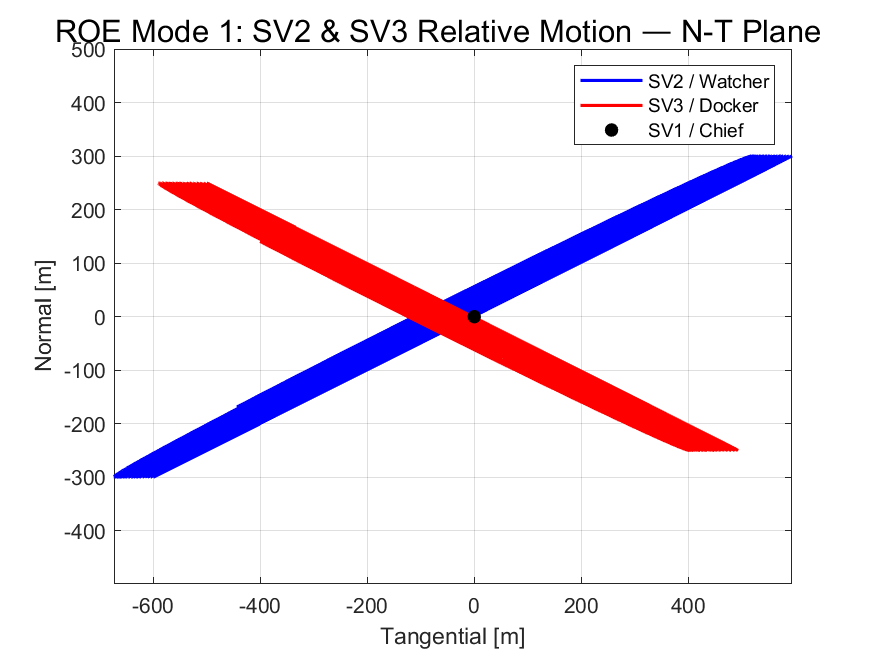
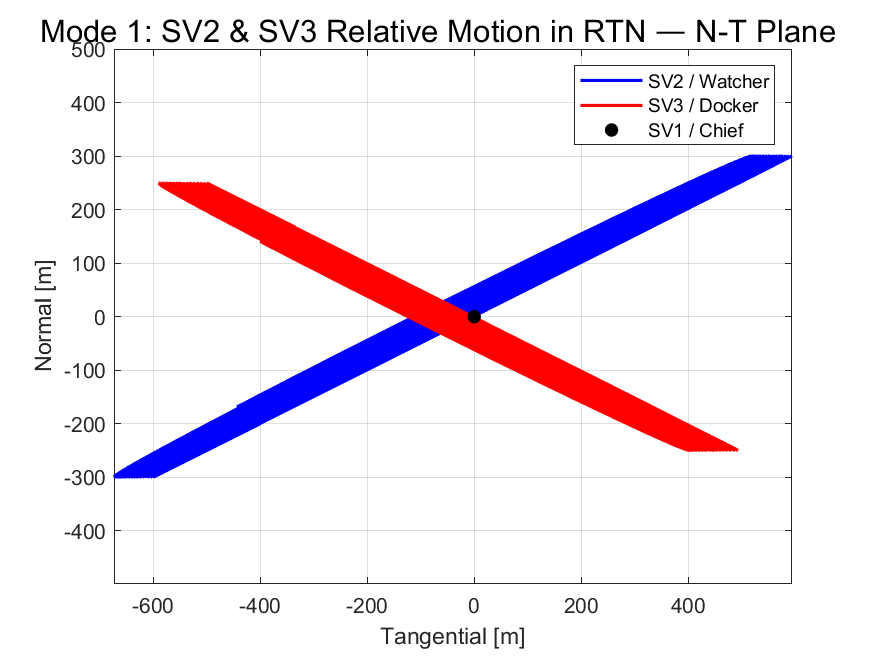
Q1 done fr fr

Changed region(s): [[0.0309, 0.0305, 0.7406, 0.0915], [0.7714, 0.0305, 0.9566, 0.061]]

diff --git a/sim/simulate_and_plot_relative_motion.m b/sim/simulate_and_plot_relative_motion.m
@@ -1,4 +1,5 @@
-function simulate_and_plot_relative_motion(t, SV2_roe_init, state_abs_SV2_init, SV3_roe_init, state_abs_SV3_init, SV1_oe_init, SV1_state_init, fig_path, title_str)
+function simulate_and_plot_relative_motion(t, t_orbit, SV2_roe_init, state_abs_SV2_init, SV3_roe_init, state_abs_SV3_init, SV1_oe_init, SV1_state_init,...
+    fig_path, title_str, fig_path2, title_str2, fig_path3, title_str3)
     % Inputs:
     %   t             = time array [s]
     %   SV2_roe_init  = 6x1 initial QNS ROEs of Watcher (SV2)
@@ -14,10 +15,7 @@ function simulate_and_plot_relative_motion(t, SV2_roe_init, state_abs_SV2_init, 
     r_SV1 = chief_state(:,1:3);
     v_SV1 = chief_state(:,4:6);
     
-    % Propagate both deputies in ROE and ECI
-    [~, roe_SV2] = roe_stm_j2(t, SV2_roe_init, SV1_oe_init);
-    [~, roe_SV3] = roe_stm_j2(t, SV3_roe_init, SV1_oe_init);
-
+    % Propagate both deputies in ECI
     [~, state_SV2] = rk4_eom_ECI(t, state_abs_SV2_init, J2_flag); % with J2
     [~, state_SV3] = rk4_eom_ECI(t, state_abs_SV3_init, J2_flag); % with J2
     r_SV2 = state_SV2(:,1:3);
@@ -30,8 +28,6 @@ function simulate_and_plot_relative_motion(t, SV2_roe_init, state_abs_SV2_init, 
     SV3_rel_pos = zeros(length(t), 3);
 
     % ROE from FODE
-    
-    
     [d_a_osc_SV2, d_lambda_osc_SV2, d_e_x_osc_SV2, d_e_y_osc_SV2, d_i_x_osc_SV2, d_i_y_osc_SV2, ...
      d_a_mean_SV2, d_lambda_mean_SV2, d_e_x_mean_SV2, d_e_y_mean_SV2, d_i_x_mean_SV2, d_i_y_mean_SV2] = ...
         compute_OE_ROE_mean_osc(r_SV1, v_SV1, r_SV2, v_SV2, J2_flag);
@@ -40,6 +36,11 @@ function simulate_and_plot_relative_motion(t, SV2_roe_init, state_abs_SV2_init, 
         compute_OE_ROE_mean_osc(r_SV1, v_SV1, r_SV3, v_SV3, J2_flag);
     ROE_SV2_FODE = [d_a_mean_SV2, d_lambda_mean_SV2, d_e_x_mean_SV2, d_e_y_mean_SV2, d_i_x_mean_SV2, d_i_y_mean_SV2];
     ROE_SV3_FODE = [d_a_mean_SV3, d_lambda_mean_SV3, d_e_x_mean_SV3, d_e_y_mean_SV3, d_i_x_mean_SV3, d_i_y_mean_SV3];
+
+    % Propagate ROE from STM using same IC
+
+    [~, roe_SV2] = roe_stm_j2(t, ROE_SV2_FODE(1,:), SV1_oe_init);
+    [~, roe_SV3] = roe_stm_j2(t, ROE_SV3_FODE(1,:), SV1_oe_init);
 
 
     for i = 1:length(t)     
@@ -52,28 +53,7 @@ function simulate_and_plot_relative_motion(t, SV2_roe_init, state_abs_SV2_init, 
         x_v_SV3 = v_SV3(i,:)';
 
         SV2_rel_pos(i, :) = ECI2RTN_rel(x_r_SV1', x_v_SV1', x_r_SV2', x_v_SV2');
-        SV3_rel_pos(i, :) = ECI2RTN_rel(x_r_SV1', x_v_SV1', x_r_SV3', x_v_SV3');
-
-        % Compute ROEs from ECI states
-        % [d_a_osc_SV2, d_lambda_osc_SV2, d_e_x_osc_SV2, d_e_y_osc_SV2, d_i_x_osc_SV2, d_i_y_osc_SV2, ...
-        %  d_a_mean_SV2, d_lambda_mean_SV2, d_e_x_mean_SV2, d_e_y_mean_SV2, d_i_x_mean_SV2, d_i_y_mean_SV2] = ...
-        %     compute_OE_ROE_mean_osc(x_r_SV1', x_v_SV1', x_r_SV2', x_v_SV2', J2_flag);
-        % [d_a_osc_SV3, d_lambda_osc_SV3, d_e_x_osc_SV3, d_e_y_osc_SV3, d_i_x_osc_SV3, d_i_y_osc_SV3, ...
-        %  d_a_mean_SV3, d_lambda_mean_SV3, d_e_x_mean_SV3, d_e_y_mean_SV3, d_i_x_mean_SV3, d_i_y_mean_SV3] = ...
-        %     compute_OE_ROE_mean_osc(x_r_SV1', x_v_SV1', x_r_SV3', x_v_SV3', J2_flag);
-
-
-
-
-        %[a_o, e_o, i_o, RAAN_o, w_o, M_o] = ECI2OE(x_r_SV1, x_v_SV1);
-        %oe_SV1 = [a_o, e_o, i_o, RAAN_o, w_o, M_o];
-
-        % Convert QNS ROEs to relative RTN position
-        %SV2_rel_pos(i, :) = ROE2RTN(x_roe_SV2, oe_SV1,x_r_SV1,x_v_SV1);
-        %SV3_rel_pos(i, :) = ROE2RTN(x_roe_SV3, oe_SV1,x_r_SV1,x_v_SV1);
-        % For now, just propagating regularly, not using J2 STM
-        
-
+        SV3_rel_pos(i, :) = ECI2RTN_rel(x_r_SV1', x_v_SV1', x_r_SV3', x_v_SV3');     
 
     end
 
@@ -83,4 +63,9 @@ function simulate_and_plot_relative_motion(t, SV2_roe_init, state_abs_SV2_init, 
     NT = true; 
     plot_RT_RN_projections_separate(SV2_rel_pos, SV3_rel_pos, RT,RN,NT,title_str, fig_path);
     %plot_RT_RN_projections(SV2_rel_pos, SV3_rel_pos,title_str, fig_path);
+
+    plot_ROE_comparison(t, t_orbit, ...
+    roe_SV2(:,1), roe_SV2(:,2), roe_SV2(:,3), roe_SV2(:,4), roe_SV2(:,5), roe_SV2(:,6), ...
+    ROE_SV2_FODE(:,1), ROE_SV2_FODE(:,2), ROE_SV2_FODE(:,3), ROE_SV2_FODE(:,4), ROE_SV2_FODE(:,5), ROE_SV2_FODE(:,6), ...
+    'STM', 'Dif. FODE', title_str2, fig_path2, title_str3, fig_path3)
 end

diff --git a/sim/plotting_methods/plot_ROE_comparison.m b/sim/plotting_methods/plot_ROE_comparison.m
@@ -1,0 +1,57 @@
+function plot_ROE_comparison(t, t_orbit, ...
+    d_a1, d_lambda1, d_e_x1, d_e_y1, d_i_x1, d_i_y1, ...
+    d_a2, d_lambda2, d_e_x2, d_e_y2, d_i_x2, d_i_y2, ...
+    label1, label2,  title_str2, fig_path2, title_str3, fig_path3)
+
+    % === Plane Projections ===
+    figure('Color', 'w', 'Position', [100, 100, 1000, 600]);
+
+    ax1 = subplot(1,3,1); hold on; axis equal; grid on;
+    xlabel('\delta e_x [m]'); ylabel('\delta e_y [m]');
+
+    ax2 = subplot(1,3,2); hold on; axis equal; grid on;
+    xlabel('\delta i_x [m]'); ylabel('\delta i_y [m]');
+
+    ax3 = subplot(1,3,3); hold on; axis equal; grid on;
+    xlabel('\delta \lambda [m]'); ylabel('\delta a [m]');
+
+    lw = 2.0;
+    plot(ax1, d_e_x1, d_e_y1, 'b', 'LineWidth', lw);
+    plot(ax1, d_e_x2, d_e_y2, 'r--', 'LineWidth', lw);
+
+    plot(ax2, d_i_x1, d_i_y1, 'b', 'LineWidth', lw);
+    plot(ax2, d_i_x2, d_i_y2, 'r--', 'LineWidth', lw);
+
+    plot(ax3, d_lambda1, d_a1, 'b', 'LineWidth', lw);
+    plot(ax3, d_lambda2, d_a2, 'r--', 'LineWidth', lw);
+
+    legend(ax1, label1, label2, 'Location', 'best');
+    legend(ax2, label1, label2, 'Location', 'best');
+    legend(ax3, label1, label2, 'Location', 'best');
+
+    sgtitle(title_str2);
+    saveas(gcf, fig_path2);
+
+    % === Time Histories ===
+    time_orbits = t / t_orbit;
+
+    figure('Color', 'w', 'Position', [100, 100, 800, 600]);
+
+    axs = gobjects(6,1);
+    labels = {'\delta a [m]', '\delta \lambda [m]', '\delta e_x [m]', ...
+              '\delta e_y [m]', '\delta i_x [m]', '\delta i_y [m]'};
+
+    ydata1 = {d_a1, d_lambda1, d_e_x1, d_e_y1, d_i_x1, d_i_y1};
+    ydata2 = {d_a2, d_lambda2, d_e_x2, d_e_y2, d_i_x2, d_i_y2};
+
+    for k = 1:6
+        axs(k) = subplot(3,2,k); hold on; grid on;
+        xlabel('Number of orbits'); ylabel(labels{k});
+        plot(time_orbits, ydata1{k}, 'b', 'LineWidth', lw);
+        plot(time_orbits, ydata2{k}, 'r--', 'LineWidth', lw);
+        legend(label1, label2, 'Location', 'best');
+    end
+
+    sgtitle(title_str3);
+    saveas(gcf, fig_path3);
+end

diff --git a/sim/ps5_sims.m b/sim/ps5_sims.m
@@ -40,11 +40,15 @@ for mode = 1:1
     state_abs_SV3_init = [r_SV3_init; v_SV3_init];
 
     fig_path = sprintf('figures/PS5/mode_%d_RTN.png', mode);
-    title_str = sprintf('ROE Mode %d: SV2 & SV3 Relative Motion', mode);
+    title_str = sprintf('Mode %d: SV2 & SV3 Relative Motion in RTN', mode);
+    fig_path2 = sprintf('figures/PS5/mode_%d_ROE_Planes.png', mode);
+    title_str2 = sprintf('Mode %d: SV2 & SV3 Relative Motion in ROE Planes', mode);
+    fig_path3 = sprintf('figures/PS5/mode_%d_ROE_Time.png', mode);
+    title_str3 = sprintf('Mode %d: SV2 & SV3 Relative Motion in ROE Time History', mode);
 
-    simulate_and_plot_relative_motion(t_series, SV2_ROE, state_abs_SV2_init, ...
+    simulate_and_plot_relative_motion(t_series, t_orbit, SV2_ROE, state_abs_SV2_init, ...
                                       SV3_ROE, state_abs_SV3_init, SV1_OE_init, ...
-                                      state_init, fig_path, title_str);
+                                      state_init, fig_path, title_str, fig_path2, title_str2, fig_path3, title_str3);
 
     roe_initial = SV3_modes(mode,:)/a_SV1_init; % must be unscaled!
     roe_final = SV3_modes(mode+1,:)/a_SV1_init;
